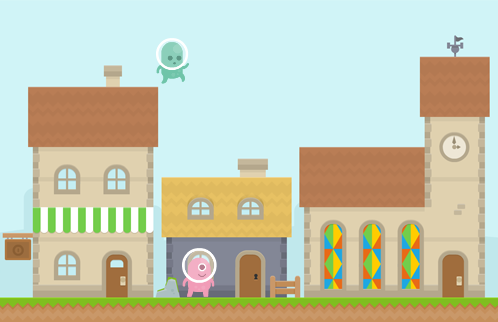
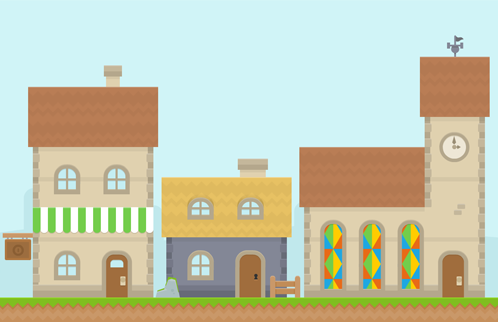
update Menu.kt

Changed region(s): [[0.3614, 0.7453, 0.4518, 0.9317], [0.3012, 0.0932, 0.3916, 0.2484]]

diff --git a/src/commonMain/kotlin/sance/Menu.kt b/src/commonMain/kotlin/sance/Menu.kt
@@ -1,22 +1,149 @@
 package sance
 
 import ConfigModule
+import com.soywiz.kds.iterators.*
+import com.soywiz.klock.*
 import com.soywiz.korge.input.*
-import com.soywiz.korge.scene.Scene
+import com.soywiz.korge.scene.*
+import com.soywiz.korge.tween.*
 import com.soywiz.korge.ui.*
 import com.soywiz.korge.view.*
 import com.soywiz.korge.view.onClick
+import com.soywiz.korim.bitmap.*
+import com.soywiz.korim.color.*
+import com.soywiz.korim.font.*
 import com.soywiz.korim.format.*
 import com.soywiz.korio.async.*
+import com.soywiz.korio.async.delay
 import com.soywiz.korio.file.std.*
 import com.soywiz.korma.geom.*
+import com.soywiz.korma.interpolation.*
+import gameplay.*
 
 class Menu() : Scene() {
 
+    val textStr = "Choose An Alien to GO"
+    val fontSize = 30.0
+    val parentView = this
+    val screenWidth = ConfigModule.size.width.toDouble()
+    val screenHeight = ConfigModule.size.height.toDouble()
+    var selectRunAlien: Alien? = null
+    var headImage: Image? = null
+    var goImage: Image? = null
+    var statToGo = false
+
     override suspend fun SContainer.sceneInit() {
-        image(resourcesVfs["menu_bg.png"].readBitmap()){
+        val font = resourcesVfs["Oswald-VariableFont_wght.ttf"].readTtfFont()
+        image(resourcesVfs["menu_bg.png"].readBitmap()) {
             scaledWidth = ConfigModule.size.width.toDouble()
             scaledHeight = ConfigModule.size.height.toDouble()
         }
+        val bitmap = NativeImage(width = 300, height = 150).apply {
+            getContext2d().fillText(
+                text = textStr,
+                x = 0.0,
+                y = 40.0,
+                font = font,
+                textSize = fontSize,
+                color = Colors.WHITE
+            )
+        }
+        val tapString = image(bitmap) {
+            position((screenWidth - bitmap.width) / 2, 50.0)
+        }
+        val alienArray = arrayListOf<Alien>()
+        for (i in 0 until Alien.Character.values().count()) {
+            val alien = Alien().apply {
+                load(Alien.Character.GREEN)
+                onClick {
+                    selectRunAlien?.stop()
+                    selectRunAlien = this
+                    walk()
+                }
+            }
+            val bg = this
+            var totalAlienWidth = 0.0
+            alienArray.add(alien)
+            alienArray.fastForEachReverse {
+                totalAlienWidth += it.width
+                addChild(it)
+            }
+            val alienSpace = (bg.width - totalAlienWidth) / (alienArray.count() + 1)
+            for (i in 0 until alienArray.count()) {
+                alienArray[i].apply {
+                    when (i) {
+                        0 -> {
+                            alignBottomToBottomOf(bg)
+                            alignLeftToRightOf(bg)
+                            y -= 42
+                        }
+                        else -> {
+                            alignBottomToBottomOf(alienArray[i - 1])
+                            alignLeftToRightOf(alienArray[i - 1])
+                        }
+                    }
+                    x += alienSpace
+                }
+            }
+            val minDegrees = (-16).degrees
+            val maxDegrees = (+16).degrees
+            val goBitmap = image(resourcesVfs["go.png"].readBitmap()){
+                rotation = maxDegrees
+                anchor(0.5,0.5)
+                scale = 1.5
+                position(650.0, 160.0)
+            }.onClick{
+                sceneContainer.changeTo<GamePlay>()
+            }
+            while (true){
+                goBitmap.tween(goBitmap!!::rotation[minDegrees], time = 0.8.seconds, easing = Easing.EASE_IN_OUT)
+                goBitmap.tween(goBitmap!!::rotation[maxDegrees], time = 0.8.seconds, easing = Easing.EASE_IN_OUT)
+            }
+//            addUpdater {
+//                selectRunAlien?.let {
+//                    if (headImage == null){
+//                        headImage = image(it.headBitmap){
+//                            anchor(0.5,0.5)
+//                            alignTopToBottomOf(tapString)
+//                            centerXOn(bg)
+//                            scale = 1.5
+//                            x -= 100
+//                            y += 10
+//                        }
+//                          goImage = image(goBitmap){
+//                            anchor(0.5, 0.5)
+//                            alignTopToBottomOf(tapString)
+//                            centerXOn(bg)
+//                            y += 10
+//                            onClick {
+//                                launchImmediately {
+//                                    sceneContainer.changeTo<GamePlay>()
+////                                    if (!statToGo){
+////                                        statToGo = true
+////                                        delay(1.seconds)
+////                                    }
+//                                }
+//                            }
+////                            launch {
+////                                while (true){
+////                                    com.soywiz.korio.async.delay(200.milliseconds)
+////                                    tween(this::rotation[(-16).degrees], time = 100.milliseconds, easing = Easing.EASE_IN_OUT)
+////                                    tween(this::rotation[(+16).degrees], time = 100.milliseconds, easing = Easing.EASE_IN_OUT)
+////                                }
+////                            }
+//                        }
+//                    }else{
+//                        headImage!!.bitmap = it.headBitmap.slice()
+//                    }
+//                }
+        }
     }
+//        addUpdater {
+//            if (statToGo){
+//                selectRunAlien?.also {
+//                    it.x += 6
+//                }
+//            }
+//        }
+
 }

diff --git a/src/commonMain/kotlin/gameplay/Alien.kt b/src/commonMain/kotlin/gameplay/Alien.kt
@@ -16,41 +16,98 @@ class Alien : Container(){
         FALL,
         HURT,
         DEAD,
-        GOAL
+        GOAL,
+        STAND
+    }
+    enum class Character{
+        GREEN,
+        PURPLE,
+        PINK,
+        BEIGE,
+        YELLOW
     }
     var status = Status.WALK
     var lastStatus = status
     lateinit var spriteMap: Bitmap
     lateinit var hurtMap: Bitmap
     lateinit var jump: Bitmap
+    lateinit var standBitmap: Bitmap
+    lateinit var headBitmap: Bitmap
     lateinit var walkAnimation: SpriteAnimation
     lateinit var walkSprite: Sprite
     lateinit var hurtAnimation: SpriteAnimation
     lateinit var sprite: Sprite
     var defaultY = 395.0
-    suspend fun load() {
-        spriteMap = resourcesVfs["green_alien_walk.png"].readBitmap()
-        jump = resourcesVfs["green_alien_jump.png"].readBitmap()
-        hurtMap = resourcesVfs["green_alien_hurt.png"].readBitmap()
+    var alienWalkCount = 11
+    var alienWalkSpeed = 0.1
+    suspend fun load(index: Character) {
+        when(index){
+            Character.GREEN ->{
+                alienWalkCount = 11
+                alienWalkSpeed = 0.1
+                standBitmap = resourcesVfs["green_alien_stand.png"].readBitmap()
+                spriteMap = resourcesVfs["green_alien_walk.png"].readBitmap()
+                hurtMap = resourcesVfs["green_alien_hurt.png"].readBitmap()
+                jump = resourcesVfs["green_alien_jump.png"].readBitmap()
+                headBitmap = resourcesVfs["green_alien_head.png"].readBitmap()
+            }
+            Character.PURPLE ->{
+                alienWalkCount = 11
+                alienWalkSpeed = 0.1
+                standBitmap = resourcesVfs["purple_alien_stand.png"].readBitmap()
+                spriteMap = resourcesVfs["purple_alien_walk.png"].readBitmap()
+                hurtMap = resourcesVfs["purple_alien_hurt.png"].readBitmap()
+                jump = resourcesVfs["purple_alien_jump.png"].readBitmap()
+                headBitmap = resourcesVfs["purple_alien_head.png"].readBitmap()
+            }
+            Character.PINK ->{
+                alienWalkCount = 11
+                alienWalkSpeed = 0.1
+                standBitmap = resourcesVfs["pink_alien_stand.png"].readBitmap()
+                spriteMap = resourcesVfs["pink_alien_walk.png"].readBitmap()
+                hurtMap = resourcesVfs["pink_alien_hurt.png"].readBitmap()
+                jump = resourcesVfs["pink_alien_jump.png"].readBitmap()
+                headBitmap = resourcesVfs["pink_alien_head.png"].readBitmap()
+            }
+            Character.BEIGE ->{
+                alienWalkCount = 2
+                alienWalkSpeed = 0.3
+                standBitmap = resourcesVfs["beige_alien_stand.png"].readBitmap()
+                spriteMap = resourcesVfs["beige_alien_walk.png"].readBitmap()
+                hurtMap = resourcesVfs["beige_alien_hurt.png"].readBitmap()
+                jump = resourcesVfs["beige_alien_jump.png"].readBitmap()
+                headBitmap = resourcesVfs["beige_alien_head.png"].readBitmap()
+            }
+            Character.YELLOW ->{
+                alienWalkCount = 2
+                alienWalkSpeed = 0.3
+                standBitmap = resourcesVfs["yellow_alien_stand.png"].readBitmap()
+                spriteMap = resourcesVfs["yellow_alien_walk.png"].readBitmap()
+                hurtMap = resourcesVfs["yellow_alien_hurt.png"].readBitmap()
+                jump = resourcesVfs["yellow_alien_jump.png"].readBitmap()
+                headBitmap = resourcesVfs["yellow_alien_head.png"].readBitmap()
+            }
+        }
         hurtAnimation = SpriteAnimation(
             spriteMap = hurtMap,
-            spriteWidth = 72,
-            spriteHeight = 97
+            spriteWidth = hurtMap.width,
+            spriteHeight = hurtMap.height
         )
         walkAnimation = SpriteAnimation(
             spriteMap = spriteMap,
-            spriteWidth = 72,
-            spriteHeight = 97,
+            spriteWidth = spriteMap.width / alienWalkCount,
+            spriteHeight = spriteMap.height,
             marginTop = 0,
             marginLeft = 0,
-            columns = 11,
+            columns = alienWalkCount,
             rows = 1,
             offsetBetweenColumns = 0,
             offsetBetweenRows = 0
         )
-        walkSprite = sprite(walkAnimation) {
-            spriteDisplayTime = 0.1.seconds
-        }
+        sprite = sprite(standBitmap)
+//        walkSprite = sprite(walkAnimation) {
+//            spriteDisplayTime = 0.1.seconds
+//        }
     }
 
     fun changeStatus() {
@@ -96,6 +153,11 @@ class Alien : Container(){
     }
     fun fail(){
         status = Status.FALL
+    }
+    fun stop(){
+        changeStatus()
+        status = Status.STAND
+        sprite = sprite(standBitmap)
     }
     fun update(){
         when(status) {

diff --git a/src/commonMain/kotlin/main.kt b/src/commonMain/kotlin/main.kt
@@ -17,7 +17,7 @@ suspend fun main() = Korge(Korge.Config(module = ConfigModule)) object ConfigMod
         override val bgcolor: RGBA = Colors["#2b2b2b"]
         override val size = SizeInt(960, 540)
         override val windowSize = SizeInt(1280, 768)
-        override val mainScene = GamePlay::class
+        override val mainScene = Splash::class
         override suspend fun AsyncInjector.configure(){
             mapPrototype { Splash() }
             mapPrototype { Menu() }

diff --git a/src/commonMain/kotlin/sance/GamePlay.kt b/src/commonMain/kotlin/sance/GamePlay.kt
@@ -39,7 +39,7 @@ class GamePlay() : Scene(){
             load(parentView)
         }
         val alien = Alien().apply {
-            load()
+            load(index = Alien.Character.GREEN)
             parentView.addChild(this)
             position(100.0, 395.0)
             walk()
